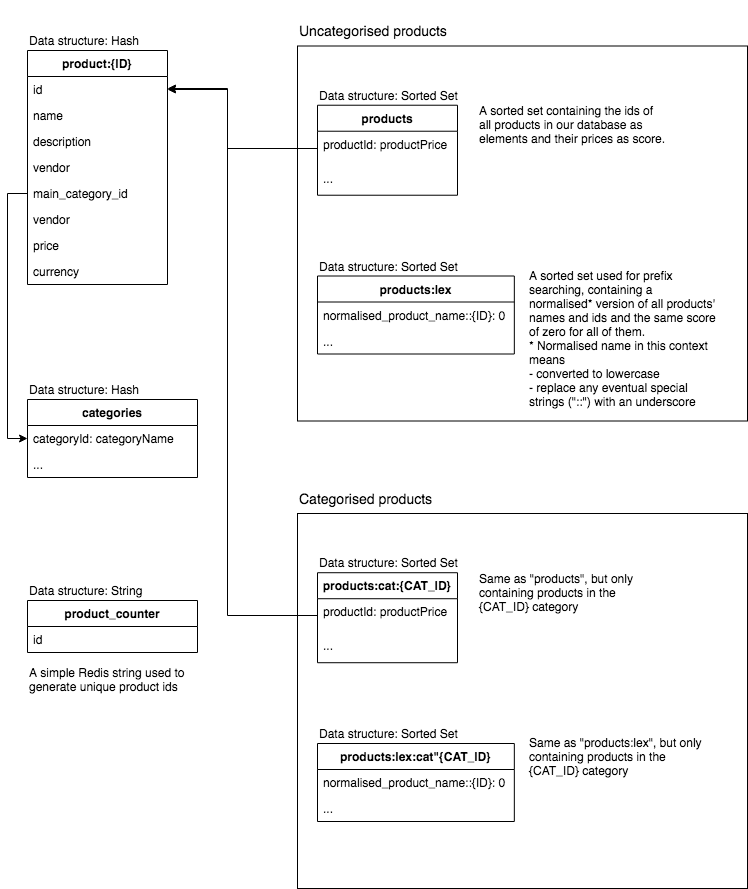
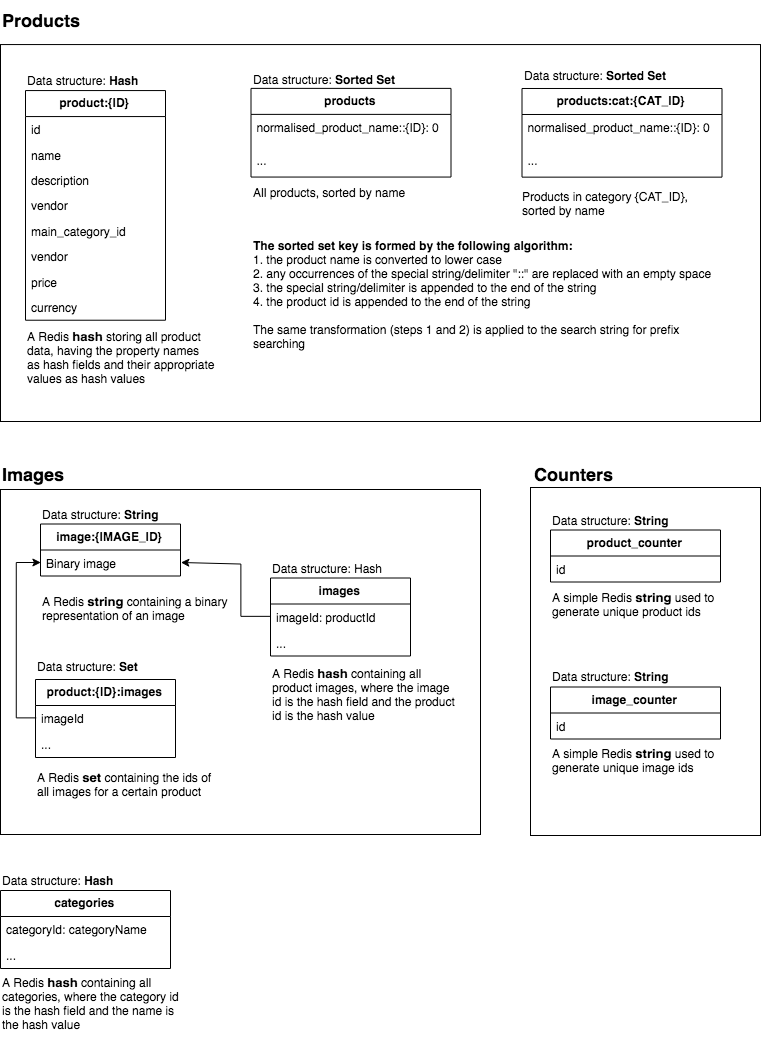
Add tests for category and image models

diff --git a/product.go b/product.go
@@ -52,13 +52,30 @@ func (product *Product) setCategory(redisConn redis.Conn) {
 }
 
 func (product *Product) setImages(redisConn redis.Conn) {
-	values, _ := getHashAsStringMap(getProductImagesKeyName(product.Id), redisConn)
-	product.Images = getProductImagesFromHash(values)
+	imageIds, _ := redis.Ints(redisConn.Do("SMEMBERS", getProductImagesKeyName(product.Id)))
+	//values, _ := getHashAsStringMap(getProductImagesKeyName(product.Id), redisConn)
+	for _, imageId := range imageIds {
+		image := Image{
+			Id:  imageId,
+		}
+		image.setUrl()
+		product.Images = append(product.Images, image)
+	}
 }
 
 // Similar behavior as `setImages` but uses the string map received from a pipeline
-func (product *Product) setImagesFromStringMap(values map[string]string) {
-	product.Images = getProductImagesFromHash(values)
+func (product *Product) setImagesFromStringMap(imageIds []int) {
+	//images := make([]Image, 0)
+
+	for _, imageId := range imageIds {
+		image := Image{
+			Id:  imageId,
+		}
+		image.setUrl()
+		product.Images = append(product.Images, image)
+	}
+
+	//product.Images = images
 }
 
 func (product *Product) delete(redisConn redis.Conn) error {
@@ -99,7 +116,7 @@ func (product *Product) delete(redisConn redis.Conn) error {
 	_ = redisConn.Send("ZREM", config.KeyAllProducts, product.getLexName())
 	_ = redisConn.Send("ZREM", getProductsInCategoryKeyName(product.MainCategoryId), product.getLexName())
 
-	// Delete the image key
+	// Delete the product key
 	_ = redisConn.Send("DEL", product.getKeyName())
 
 	// Execute transaction
@@ -260,7 +277,7 @@ func getProducts(command string, args redis.Args, categories map[int]Category, r
 			return products, nil
 		}
 		// Get the product images
-		err = redisConn.Send("HGETALL", getProductImagesKeyName(productId))
+		err = redisConn.Send("SMEMBERS", getProductImagesKeyName(productId))
 		if err != nil {
 			return products, nil
 		}
@@ -281,8 +298,8 @@ func getProducts(command string, args redis.Args, categories map[int]Category, r
 		product.MainCategoryId = 0
 
 		// Now grab the image data
-		imageValues, _ := redis.StringMap(redisConn.Receive())
-		product.setImagesFromStringMap(imageValues)
+		imageIds, _ := redis.Ints(redisConn.Receive())
+		product.setImagesFromStringMap(imageIds)
 
 		products = append(products, product)
 	}

diff --git a/image.go b/image.go
@@ -8,21 +8,26 @@ import (
 
 type Image struct {
 	Id        int    `json:"id"`
-	Value     []byte `json:"-"`
 	ProductId int    `json:"product_id,omitempty"`
 	Url       string `json:"url"`
 }
+
 func (image *Image) setId(redisConn redis.Conn) {
 	id, _ := redis.Int(redisConn.Do("INCR", config.KeyImageCounter))
 	image.Id = id
 }
+
 func (image *Image) setUrl() {
-	image.Url = config.BaseUri + getImageUrlById(image.Id)
+	image.Url = config.BaseUri + fmt.Sprintf("/images/%v", strconv.Itoa(image.Id))
 }
+
 func (image *Image) delete(redisConn redis.Conn) {
+	// Start a transaction and send all commands in a pipeline
+	_, _ = redisConn.Do("MULTI")
+	_, _ = redisConn.Do("SREM", getProductImagesKeyName(image.ProductId), image.Id)
 	_, _ = redisConn.Do("HDEL", config.KeyImages, image.Id)
-	_, _ = redisConn.Do("HDEL", getProductImagesKeyName(image.ProductId), image.Id)
 	_, _ = redisConn.Do("DEL", getImageNameById(image.Id))
+	_, _ = redisConn.Do("EXEC")
 }
 
 func getImageDataById(id int, redisConn redis.Conn) ([]byte, error) {
@@ -54,7 +59,7 @@ func saveNewImage(productId int, data []byte, redisConn redis.Conn) (Image, erro
 
 	// Add image to product's images hash
 	productImagesKeyName := getProductImagesKeyName(productId)
-	_, err = redisConn.Do("HSET", productImagesKeyName, image.Id, image.Url)
+	_, err = redisConn.Do("SADD", productImagesKeyName, image.Id)
 	if err != nil {
 		return image, err
 	}
@@ -64,8 +69,4 @@ func saveNewImage(productId int, data []byte, redisConn redis.Conn) (Image, erro
 
 func getImageNameById(id int) string {
 	return fmt.Sprintf(config.KeyImage, strconv.Itoa(id))
-}
-
-func getImageUrlById(id int) string {
-	return fmt.Sprintf("/images/%v", strconv.Itoa(id))
 }

diff --git a/image_test.go b/image_test.go
@@ -1,0 +1,69 @@
+package main
+
+import (
+	"fmt"
+	"github.com/rafaeljusto/redigomock"
+	"gotest.tools/assert"
+	"testing"
+)
+
+
+
+func TestImage_setId(t *testing.T) {
+	image := Image{}
+	conn := redigomock.NewConn()
+	cmd := conn.Command("INCR", config.KeyImageCounter).Expect(int64(1))
+	image.setId(conn)
+
+	if conn.Stats(cmd) != 1 {
+		t.Error("INCR Call to Redis was never made")
+	}
+	assert.Equal(t, 1, image.Id)
+}
+
+func TestImage_delete(t *testing.T) {
+	// Too trivial. Should probably remove it
+
+	image := Image{
+		Id: 1,
+	}
+	conn := redigomock.NewConn()
+
+	cmd1 := conn.Command("HDEL", config.KeyImages, image.Id)
+	cmd2 := conn.Command("HDEL", getProductImagesKeyName(image.ProductId), image.Id)
+	cmd3 := conn.Command("DEL", getImageNameById(image.Id))
+
+	image.delete(conn)
+
+	if conn.Stats(cmd1) + conn.Stats(cmd2) + conn.Stats(cmd3) != 3 {
+		t.Error("Keys weren't deleted properly")
+	}
+}
+
+func TestSaveNewImage(t *testing.T) {
+	imageData := make([]byte, 1*1)
+
+	imageId := 1
+	productId := 2
+
+	conn := redigomock.NewConn()
+	_ = conn.Command("INCR", config.KeyImageCounter).Expect(int64(imageId))
+	keyName := getImageNameById(imageId)
+
+	_ = conn.Command("SET", keyName, imageData).Expect("OK")
+	_ = conn.Command("HSET", config.KeyImages, imageId, productId).Expect("OK")
+	_ = conn.Command("HSET", fmt.Sprintf(config.KeyProductImages, "2"), imageId, config.BaseUri + "/images/1",).Expect("OK")
+
+
+	image, err := saveNewImage(productId, imageData, conn)
+	if err != nil {
+		t.Error(err)
+	}
+
+	assert.Equal(t, image, Image{
+		Id:        imageId,
+		ProductId: productId,
+		Url:       config.BaseUri + "/images/1",
+	})
+}
+

diff --git a/category_test.go b/category_test.go
@@ -1,0 +1,31 @@
+package main
+
+import (
+	"github.com/rafaeljusto/redigomock"
+	"gotest.tools/assert"
+	"testing"
+)
+
+func TestGetCategoriesMap(t *testing.T) {
+	conn := redigomock.NewConn()
+
+	cmd := conn.Command("HGETALL", config.KeyCategories).ExpectMap(map[string]string{
+		"10": "Cat 1",
+		"20": "Cat 2",
+	})
+
+	categories := getCategoriesMap(conn)
+
+	if conn.Stats(cmd) != 1 {
+		t.Error("HGETALL Call to Redis wasn't made")
+	}
+
+	assert.Equal(t, categories[10], Category{
+		Id:   10,
+		Name: "Cat 1",
+	})
+	assert.Equal(t, categories[20], Category{
+		Id:   20,
+		Name: "Cat 2",
+	})
+}

diff --git a/category.go b/category.go
@@ -1,6 +1,7 @@
 package main
 
 import (
+	"fmt"
 	"github.com/gomodule/redigo/redis"
 	"strconv"
 )
@@ -12,7 +13,10 @@ type Category struct {
 
 func getCategoriesMap(redisConn redis.Conn) map[int]Category {
 	categories := make(map[int]Category, 0)
-	values, _ := getHashAsStringMap(config.KeyCategories, redisConn)
+	values, e := getHashAsStringMap(config.KeyCategories, redisConn)
+	if e != nil {
+		fmt.Println(e)
+	}
 
 	for categoryId, categoryName := range values {
 		categoryId, _ := strconv.Atoi(categoryId)

diff --git a/product_test.go b/product_test.go
@@ -1,0 +1,10 @@
+package main
+
+import (
+	"testing"
+)
+
+func TestGetProductById(t *testing.T) {
+
+}
+

diff --git a/README.md b/README.md
@@ -43,6 +43,10 @@ To export the documentation to a self-contained, zero-dependencies html file, yo
 When setting up the program rename the `conf_example.json` file to `conf.json` and populate it with your values. 
 
 ## Tests
+Execute tests the standard way, by running
+```bash
+go test
+``` 
 
 ## TODO
 - Implement authentication
